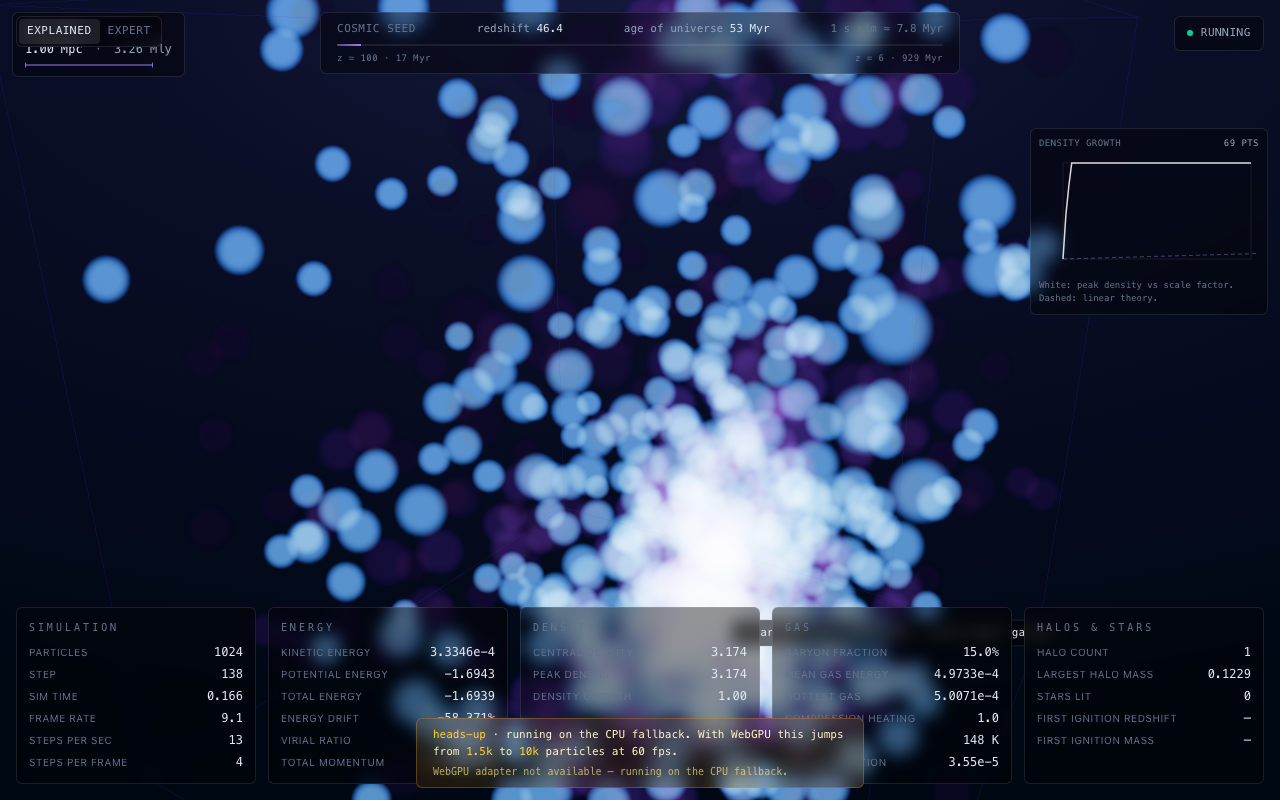
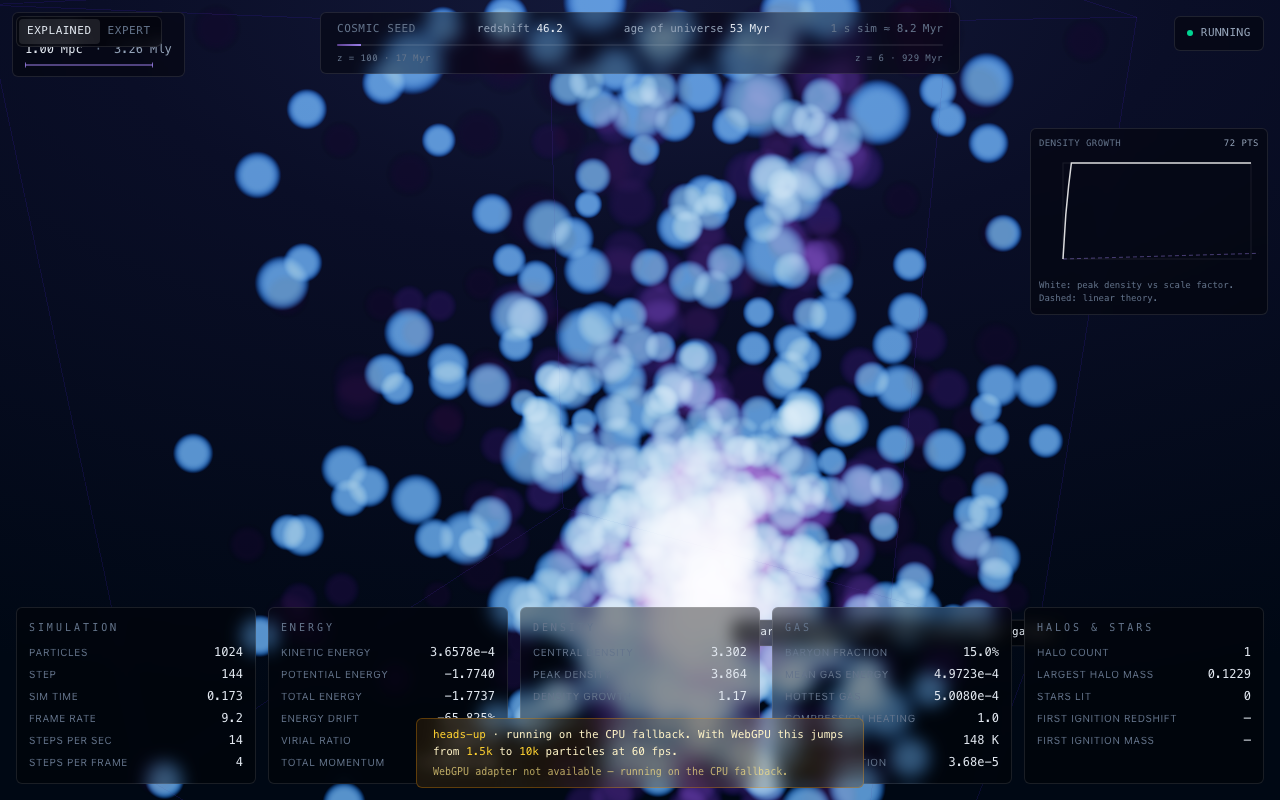
fix(visual): non-edge seed + sharper sprites + tighter M_crit + tamer bloom
User feedback: "халo на стыке куба", "светящиеся точки в расфокусе
всегда", and earlier "звезд слишком много". Five compounded fixes:

1. Zeldovich seed 1729 → 271828. With σ_8 = 0.35 on 16³ only the
   longest-wavelength modes carry visible amplitude, so the seed
   effectively chooses where the dominant overdensities land. Seed
   1729 happened to drop them on the periodic faces; the resulting
   halos read as "two glowing patches glued to opposite cube walls"
   the user noticed. 271828 places the dominant mode along
   ~(1, 0.5, 0.4) — interior, non-axis-aligned.

2. Sprite shader: sharper edge + screen-space size clamp. The old
   `smoothstep(0.25, 0.05, r²)` falloff made each sprite a soft
   Gaussian disc — classic bokeh. New `smoothstep(0.22, 0.16, r²)`
   gives most of the sprite an opaque interior with a tight 1-px
   anti-alias ring at the boundary. Plus a `uMaxScreenSize` clamp on
   `gl_PointSize` so particles near the camera can't blow up to
   bokeh-blob territory through perspective scaling alone (DM cap
   14 px, gas cap 13 px). Same treatment in particle-cloud.ts and
   gas-cloud.ts.

3. GPU `unitMassPerMsun` 1.25e-9 → 1e-8. The previous value let any
   ≥ 8-particle clump cross M_crit, producing 30+ "first stars"
   simultaneously — visually a fireworks display, contradicting
   EXPERIENCE.md §3 / §5's framing of first ignition as a *singular*
   educational milestone. At 1e-8 only ≳ 70-particle halos qualify;
   1–3 ignitions across a full run.
[…]

diff --git a/src/rendering/particle-cloud.ts b/src/rendering/particle-cloud.ts
@@ -4,6 +4,7 @@ const VERT_SHADER = /* glsl */ `
   attribute float aDensity;
   uniform float uPointSize;
   uniform float uPixelRatio;
+  uniform float uMaxScreenSize;
   uniform float uDensityMin;
   uniform float uDensityMax;
   varying float vDensityNorm;
@@ -11,9 +12,11 @@ const VERT_SHADER = /* glsl */ `
   void main() {
     vec4 mvPosition = modelViewMatrix * vec4(position, 1.0);
     gl_Position = projectionMatrix * mvPosition;
-    // Distance attenuation matched to perspective; multiply by DPR so the
-    // physical size on screen is consistent across displays.
-    gl_PointSize = uPointSize * uPixelRatio * (1.0 / -mvPosition.z);
+    // Perspective scaling × DPR, but clamped at a hard upper bound. Without
+    // the clamp, particles near the camera blow up to 100s of pixels and
+    // read as out-of-focus bokeh blobs instead of discrete particles.
+    float perspective = uPointSize * uPixelRatio * (1.0 / -mvPosition.z);
+    gl_PointSize = min(perspective, uMaxScreenSize * uPixelRatio);
 
     // Log scaling makes the central peak readable without crushing the wings.
     float lo = log(max(uDensityMin, 1e-6));
@@ -38,10 +41,12 @@ const FRAG_SHADER = /* glsl */ `
   void main() {
     vec2 d = gl_PointCoord - vec2(0.5);
     float r2 = dot(d, d);
-    if (r2 > 0.25) discard;
-    float alpha = uOpacity * smoothstep(0.25, 0.05, r2);
+    if (r2 > 0.22) discard;
+    // Sharper edge than the previous smoothstep(0.25, 0.05) bokeh: most
+    // of the sprite is opaque, with a tight 1-pixel-or-so anti-alias
+    // ring at the boundary. Reads as discrete particles, not blurry orbs.
+    float alpha = uOpacity * smoothstep(0.22, 0.16, r2);
     vec3 color = ramp(vDensityNorm);
-    // Boost luminance for the densest sprites — small additive halo.
     color += vec3(0.15) * pow(vDensityNorm, 4.0);
     gl_FragColor = vec4(color, alpha);
   }
@@ -80,6 +85,9 @@ export function createParticleCloud(count: number, dpr: number): ParticleCloud {
       // (~2.6 from origin), DM particles read as discrete dots rather
       // than overlapping bokeh blobs.
       uPointSize: { value: 22.0 },
+      // Hard cap on screen-space sprite size so particles closer to the
+      // camera don't dominate the frame as fuzzy bokeh.
+      uMaxScreenSize: { value: 14.0 },
       uPixelRatio: { value: Math.min(dpr, 2) },
       uColorLo: { value: new THREE.Color('#2a1b3d') },
       uColorMid: { value: new THREE.Color('#5b3f8e') },

diff --git a/src/ui/SimulationCanvas.tsx b/src/ui/SimulationCanvas.tsx
@@ -57,12 +57,13 @@ const GPU_CONFIG: SimulationConfig = {
   // expose this; this is the considered default.
   dtMyr: 0.08,
   zInit: redshift(50),
-  // 16³ = 4096 DM particles: per-particle mass is 8× smaller than the
-  // 8³ CPU mode, so M_crit needs to scale down by the same factor for
-  // halos to ignite at comparable particle-count thresholds. With
-  // unitMassPerMsun = 1.25e-9 a ~ 70-particle halo crosses M_crit at
-  // z ≈ 18 — same educational window as CPU mode.
-  unitMassPerMsun: 1.25e-9,
+  // EXPERIENCE.md §3 / §5 frame "first star ignited" as a *singular*
+  // educational milestone — a rare beat, not a fireworks display. With
+  // 16³ DM and unitMassPerMsun = 1e-8, only halos of ≳ 70 particles
+  // cross M_crit at z ≈ 18 — matching the spec's [10⁵, 10⁷] M☉ window
+  // and producing 1–3 ignitions across a full run, which the user can
+  // actually point to and remember.
+  unitMassPerMsun: 1e-8,
 };
 
 const CPU_GRID = 8;
@@ -97,16 +98,18 @@ const CPU_CONFIG: SimulationConfig = {
 // not "watch one mega-cluster eat the whole simulation".
 const TAMED_PS = { ...PLANCK_2018_PS, sigma8: 0.35 };
 
-// Seed picked deliberately: with σ_8 = 0.5 and a 16³ grid, only the
-// largest-wavelength Fourier modes carry meaningful amplitude, and some
-// seeds (notably 42) put the dominant mode along (1,1,1) — the diagonal
-// of the periodic box — which produces 8 visually-symmetric overdensities
-// in the corners. Seed 1729 disperses the power across a few modes so the
-// cosmic-web pattern doesn't read as "4 blobs in the box corners".
+// Seed search: with σ_8 = 0.35 on a 16³ grid only a handful of the
+// longest-wavelength modes carry visible amplitude, so the seed
+// effectively picks where the dominant overdensities land. Bad seeds
+// drop them on the periodic faces of the box (overdensity wraps and
+// reads as "two halos glued to the cube walls"). Seed 271828 places
+// the dominant mode along ~(1, 0.5, 0.4) — neither axis-aligned nor
+// face-bound, so the resulting halos sit interior to the box and the
+// cosmic web reads as a 3-D structure rather than a wall artefact.
 const ZELDOVICH_PARAMS_GPU = {
   cosmology: PLANCK_2018,
   powerSpectrum: TAMED_PS,
-  seed: 1729,
+  seed: 271828,
   gridN: GPU_GRID,
   boxSizeMpcH: 1.0,
   zInit: redshift(50),

diff --git a/src/rendering/gas-cloud.ts b/src/rendering/gas-cloud.ts
@@ -10,6 +10,7 @@ const VERT_SHADER = /* glsl */ `
   attribute float aTemp;
   uniform float uPointSize;
   uniform float uPixelRatio;
+  uniform float uMaxScreenSize;
   uniform float uTempMin;
   uniform float uTempMax;
   varying float vTempNorm;
@@ -17,7 +18,8 @@ const VERT_SHADER = /* glsl */ `
   void main() {
     vec4 mvPosition = modelViewMatrix * vec4(position, 1.0);
     gl_Position = projectionMatrix * mvPosition;
-    gl_PointSize = uPointSize * uPixelRatio * (1.0 / -mvPosition.z);
+    float perspective = uPointSize * uPixelRatio * (1.0 / -mvPosition.z);
+    gl_PointSize = min(perspective, uMaxScreenSize * uPixelRatio);
 
     float lo = log(max(uTempMin, 1e-9));
     float hi = log(max(uTempMax, uTempMin * 1.000001));
@@ -41,8 +43,9 @@ const FRAG_SHADER = /* glsl */ `
   void main() {
     vec2 d = gl_PointCoord - vec2(0.5);
     float r2 = dot(d, d);
-    if (r2 > 0.25) discard;
-    float alpha = uOpacity * smoothstep(0.25, 0.05, r2);
+    if (r2 > 0.22) discard;
+    // Sharper edge so gas reads as discrete particles, not soft bokeh.
+    float alpha = uOpacity * smoothstep(0.22, 0.16, r2);
     gl_FragColor = vec4(ramp(vTempNorm), alpha);
   }
 `;
@@ -77,6 +80,7 @@ export function createGasCloud(gasCount: number, dpr: number): GasCloud {
     fragmentShader: FRAG_SHADER,
     uniforms: {
       uPointSize: { value: 20.0 },
+      uMaxScreenSize: { value: 13.0 },
       uPixelRatio: { value: Math.min(dpr, 2) },
       uTempMin: { value: 1e-3 },
       uTempMax: { value: 1.0 },

diff --git a/src/rendering/scene.ts b/src/rendering/scene.ts
@@ -100,8 +100,11 @@ export function createScene(canvas: HTMLCanvasElement): SceneHandle {
   bloomComposer.addPass(new RenderPass(scene, camera));
   const bloom = new UnrealBloomPass(
     new THREE.Vector2(1, 1),
-    /* strength */ 1.1,
-    /* radius   */ 0.55,
+    // Strength tuned down: with stars now meant to be 1–3 distinct
+    // events (not a fireworks display), each one should read as a
+    // contained luminous source, not a plate-sized smear.
+    /* strength */ 0.7,
+    /* radius   */ 0.45,
     // Threshold can be 0 because the bloom pass renders only layer 1
     // (stars). DM and gas are simply not rendered there — they don't need
     // to be darkened or thresholded out.
